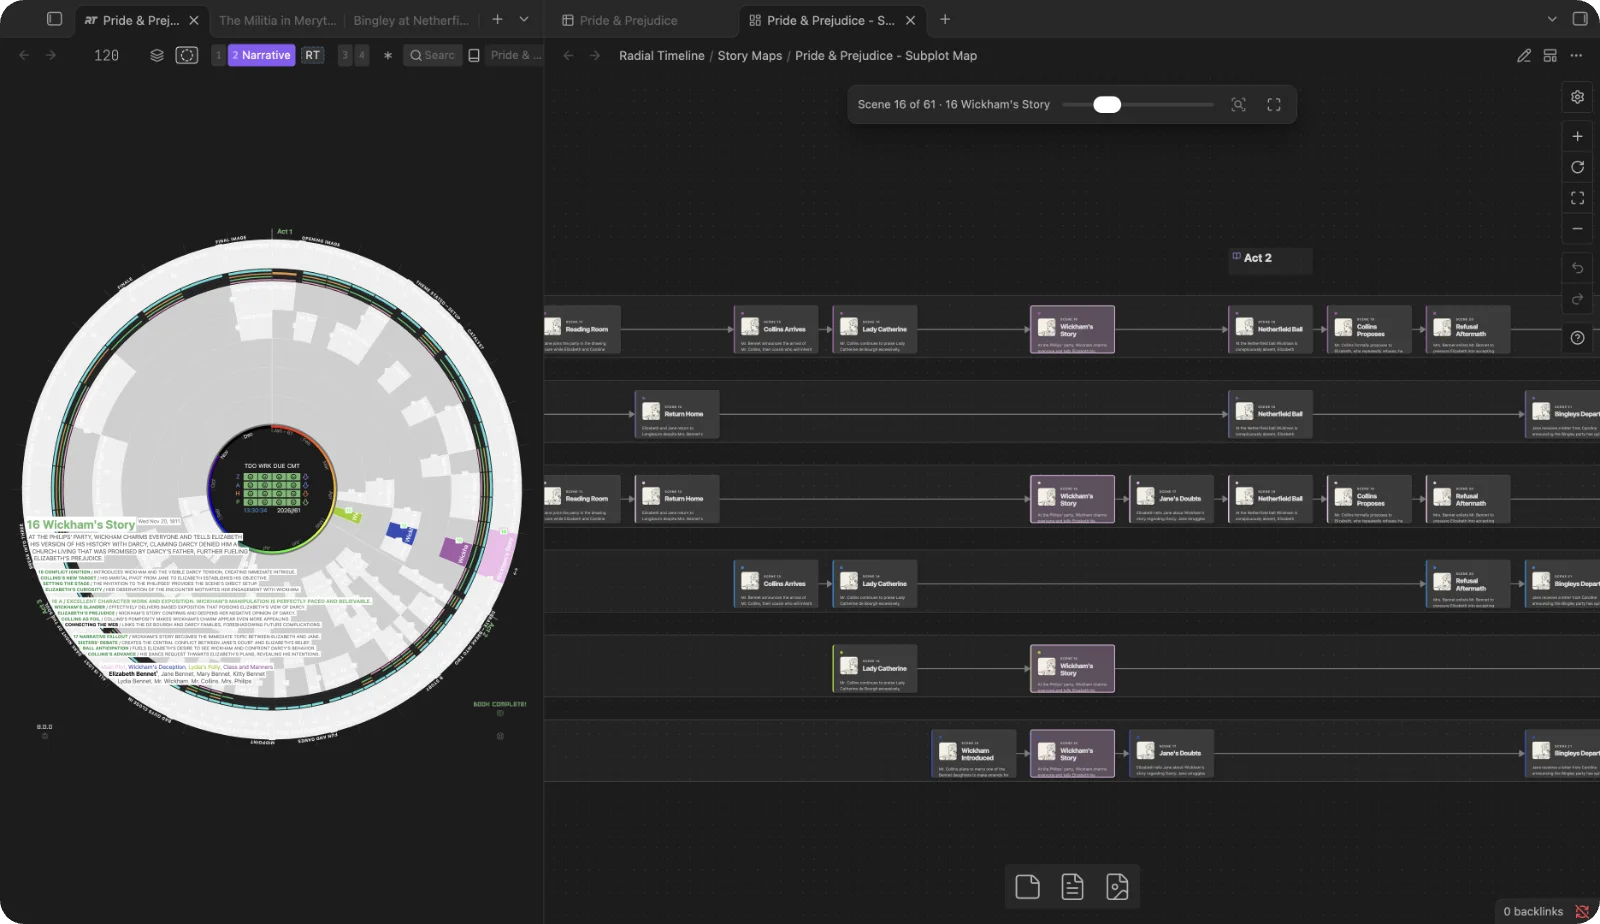
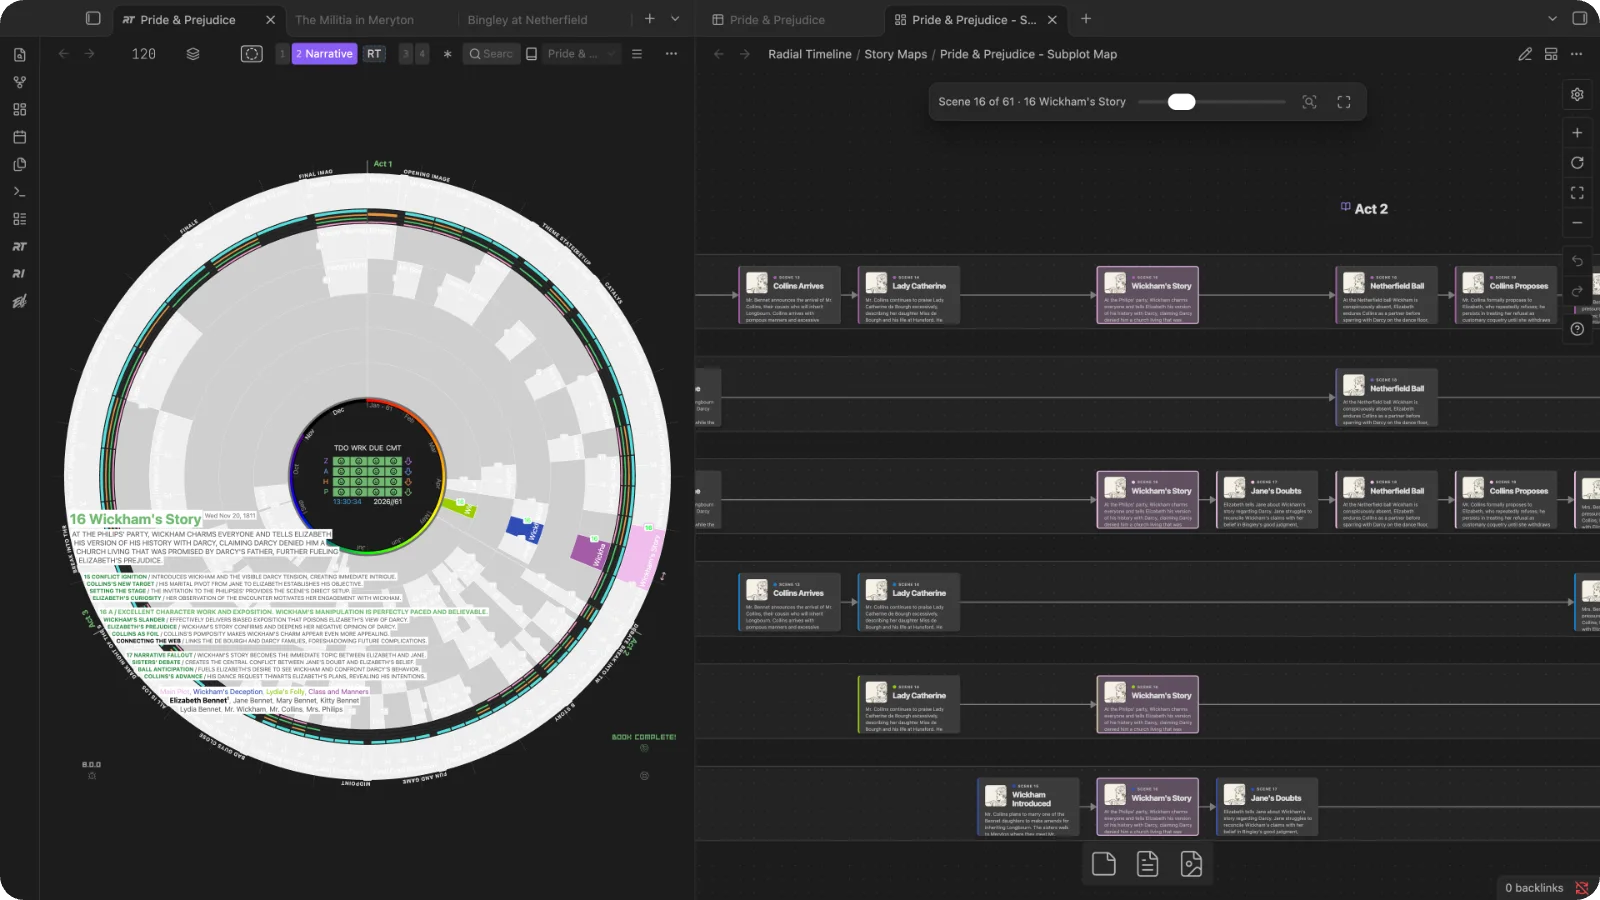
Update the Canvas map image and card docs for 8.0.0
Recapture canvas-subplot-map with the compact card layout. The wiki now says every Canvas opens in Preview and how to edit a card's note. Finish the wording from 9f05e6d4: two wiki lines no longer use the product name as a chart type, and the English ribbon label capitalizes it like every other locale.

diff --git a/src/i18n/locales/en.ts b/src/i18n/locales/en.ts
@@ -1087,7 +1087,7 @@ export const en = {
         },
     },
     ribbon: {
-        openTimeline: 'Open radial timeline',
+        openTimeline: 'Open Radial Timeline',
         openInquiry: 'Open radial inquiry',
     },
     commands: {

diff --git a/wiki/Timetable.md b/wiki/Timetable.md
@@ -3,7 +3,7 @@ Keep the book’s notes beside the wheel in an Obsidian Bases view. The Timetabl
 > [!NOTE]
 > Enable **Bases** under **Settings → Core plugins**. The Timetable works with Obsidian 1.13; the Act and Status boards require Obsidian 1.14 or later.
 
-![The Timetable beside the radial timeline: Act 1 of Pride and Prejudice in the Table layout, with the toolbar above, drag grips and stage letters by each number, colored subplot squares, dates, and character portraits](images/timetable-sidebyside.webp)
+![The Timetable beside the timeline: Act 1 of Pride and Prejudice in the Table layout, with the toolbar above, drag grips and stage letters by each number, colored subplot squares, dates, and character portraits](images/timetable-sidebyside.webp)
 
 ## Open the Timetable
 
@@ -156,7 +156,7 @@ Each scene appears in every subplot lane it belongs to, as a card linked to its 
 <p align="center"><img src="images/canvas-subplot-map.webp" alt="Wickham's Story hovered on the wheel, and its four cards lit across the subplot lanes of the Canvas map beside it, with the story navigation bar reading Scene 16 of 61" width="800"></p>
 
 - **Story navigation**, the bar along the top of the map: drag the slider to travel scene by scene (*Scene 16 of 61 · Wickham’s Story*), **Zoom to selection** to frame the selected cards, or **Fit all**. Act labels stay readable when you zoom out.
-- **Canvas card view**, in the Canvas title bar: **Preview** (synopsis or opening text), **Title**, or **Full note**. The same menu has **Show overdue scenes**, which marks late scenes, and **Follow timeline hover in Canvas**, which moves the map to a scene you hover on the wheel. Cards carry their subplot colors.
+- **Canvas card view**, in the Canvas title bar: **Preview** (synopsis or opening text), **Title**, or **Full note**. Every Canvas opens in **Preview**, including Canvases outside your books; a choice here lasts until you close that Canvas. Double-click a card to edit its note. The same menu has **Show overdue scenes**, which marks late scenes, and **Follow timeline hover in Canvas**, which moves the map to a scene you hover on the wheel. Cards carry their subplot colors.
 - **The map and the wheel point at each other.** Hover a scene on the wheel and its cards light up on the map; click a card and its scene lights on the wheel and in the Timetable. A card’s menu adds **Radial Timeline: Show in Timetable**, **Radial Timeline: Show on timeline** and, for sketches and notes without a Class, **Radial Timeline: Promote to scene**.
 
 ## Bring ideas from Canvas

diff --git a/wiki/Odyssey-Demo-Vault.md b/wiki/Odyssey-Demo-Vault.md
@@ -12,7 +12,7 @@ To keep it as a separate vault instead, click **Download ZIP** on the same card,
 
 ## Why The Odyssey
 
-The poem doesn't run in a straight line, which makes it a good test of a radial timeline. It opens with Telemachus while Ulysses is still missing. Ulysses then tells his own earlier wanderings to the Phaeacians, and the last books return to Ithaca for disguises, recognitions, tests, and reversals.
+The poem doesn't run in a straight line, which makes it a good test of a circular timeline. It opens with Telemachus while Ulysses is still missing. Ulysses then tells his own earlier wanderings to the Phaeacians, and the last books return to Ithaca for disguises, recognitions, tests, and reversals.
 
 ## What's inside
 
